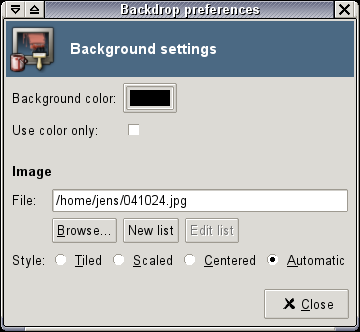
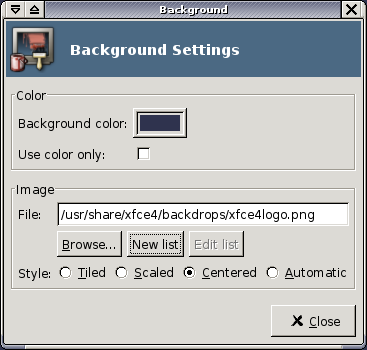
Update screenshots for new dialog style
(Old svn revision: 7213)

diff --git a/settings/backdrop-mgr.c b/settings/backdrop-mgr.c
@@ -130,25 +130,22 @@ static void read_file(const char *filename, ListDialog *ld)
 
     if (!g_file_get_contents(filename, &contents, NULL, &error))
     {
-	char msg[1024];
-
-	sprintf(msg, _("Could not read file %s:\n\n%s"),
-		filename, error->message);
-
-	show_error(msg);
+	show_error(error->message);
+	g_error_free(error);
 	
 	return;
     }
 
     if (strncmp(LIST_TEXT, contents, strlen(LIST_TEXT)) != 0)
     {
-	char msg[1024];
+	char *msg;
 
 	g_free(contents);
 
-	sprintf(msg,_("Not a backdrop list file: %s\n"), filename);
+	msg = g_strdup_printf(_("Not a backdrop list file: %s\n"), filename);
 	
 	show_error(msg);
+	g_free(msg);
 	
 	return;
     }
@@ -174,15 +171,15 @@ static gboolean save_list_file(ListDialog *ld)
     
     if (!fp)
     {
-	char message[1024];
+	char *message;
 
-	sprintf(message, 
-		_("Could not save file %s.\n\n"
-		  "Please choose another location or press "
-		  "cancel in the dialog to discard your changes"), 
-		ld->filename);
+	message = g_strdup_printf(_("Could not save file %s.\n\n"
+		  	"Please choose another location or press "
+		  	"cancel in the dialog to discard your changes"), 
+			ld->filename);
 	
 	show_error(message);
+	g_free(message);
 
 	return FALSE;
     }
@@ -575,7 +572,7 @@ static void list_mgr_dialog(const char *title, GtkWidget *parent,
     
     ld->last_dir = g_build_filename(DATADIR, "xfce4", "backdrops/", NULL);
     
-    dialog = gtk_dialog_new_with_buttons(_("Backdrop list manager"), 
+    dialog = gtk_dialog_new_with_buttons(_("Backdrop List"), 
 	    				 GTK_WINDOW(parent),
 	    				 GTK_DIALOG_NO_SEPARATOR, 
 					 NULL);
@@ -610,7 +607,7 @@ static void list_mgr_dialog(const char *title, GtkWidget *parent,
     gtk_widget_set_size_request(header, -1, 50);
 
     frame = gtk_frame_new(_("Image files"));
-    gtk_container_set_border_width(GTK_CONTAINER(frame), BORDER-1);
+    gtk_container_set_border_width(GTK_CONTAINER(frame), BORDER);
     gtk_widget_show(frame);
     gtk_box_pack_start(GTK_BOX(mainvbox), frame, TRUE, TRUE, 0);
     
@@ -624,7 +621,7 @@ static void list_mgr_dialog(const char *title, GtkWidget *parent,
     add_list_buttons(vbox, ld);
 
     frame = gtk_frame_new(_("List file"));
-    gtk_container_set_border_width(GTK_CONTAINER(frame), BORDER-1);
+    gtk_container_set_border_width(GTK_CONTAINER(frame), BORDER);
     gtk_widget_show(frame);
     gtk_box_pack_start(GTK_BOX(mainvbox), frame, FALSE, FALSE, 0);
     

diff --git a/settings/backdrop_settings.c b/settings/backdrop_settings.c
@@ -591,7 +591,7 @@ browse_cb (GtkWidget * b, BackdropDialog * bd)
     if (fs)
 	gtk_window_present(GTK_WINDOW(fs));
     
-    title = _("Select backdrop image or list file");
+    title = _("Select background image or list file");
     fs = GTK_FILE_SELECTION(preview_file_selection_new (title, TRUE));
     
     gtk_file_selection_hide_fileop_buttons(fs);
@@ -789,11 +789,13 @@ static GtkWidget *create_backdrop_dialog(McsPlugin * mcs_plugin)
     bd->plugin = mcs_plugin;
 
     /* the dialog */
-    bd->dialog = gtk_dialog_new_with_buttons(_("Backdrop preferences"), NULL,
+    bd->dialog = gtk_dialog_new_with_buttons(_("Background"), NULL,
                                              GTK_DIALOG_NO_SEPARATOR, 
 					     GTK_STOCK_CLOSE,
 					     GTK_RESPONSE_OK,
 					     NULL);
+
+    gtk_dialog_set_default_response(GTK_DIALOG(bd->dialog), GTK_RESPONSE_OK);
 
     gtk_window_set_position(GTK_WINDOW(bd->dialog), GTK_WIN_POS_CENTER);
 
@@ -804,14 +806,14 @@ static GtkWidget *create_backdrop_dialog(McsPlugin * mcs_plugin)
     mainvbox = GTK_DIALOG(bd->dialog)->vbox;
     
     /* header */
-    header = create_header(bd->plugin->icon, _("Background settings"));
+    header = create_header(bd->plugin->icon, _("Background Settings"));
     gtk_box_pack_start(GTK_BOX(mainvbox), header, FALSE, TRUE, 0);
 
     add_spacer(GTK_BOX(mainvbox));
 
     /* color */
     frame = gtk_frame_new(_("Color"));
-    gtk_container_set_border_width(GTK_CONTAINER(frame), BORDER-1);
+    gtk_container_set_border_width(GTK_CONTAINER(frame), BORDER);
     gtk_widget_show(frame);
     gtk_box_pack_start(GTK_BOX(mainvbox), frame, TRUE, TRUE, 0);
     
@@ -824,7 +826,7 @@ static GtkWidget *create_backdrop_dialog(McsPlugin * mcs_plugin)
 
     /* image vbox */
     frame = gtk_frame_new(_("Image"));
-    gtk_container_set_border_width(GTK_CONTAINER(frame), BORDER-1);
+    gtk_container_set_border_width(GTK_CONTAINER(frame), BORDER);
     gtk_widget_show(frame);
     gtk_box_pack_start(GTK_BOX(mainvbox), frame, TRUE, TRUE, 0);
     

diff --git a/settings/workspaces_settings.c b/settings/workspaces_settings.c
@@ -495,7 +495,7 @@ static void run_dialog(McsPlugin *plugin )
 	return;
     }
 
-    dialog = gtk_dialog_new_with_buttons(_("Workspace settings"),NULL,
+    dialog = gtk_dialog_new_with_buttons(_("Workspaces"),NULL,
 	    				 GTK_DIALOG_NO_SEPARATOR,
 					 GTK_STOCK_CLOSE, GTK_RESPONSE_OK,
 					 NULL);
@@ -527,7 +527,7 @@ static void run_dialog(McsPlugin *plugin )
 
     /* Number of workspaces */
     frame = gtk_frame_new(_("Workspaces"));
-    gtk_container_set_border_width(GTK_CONTAINER(frame), BORDER-1);
+    gtk_container_set_border_width(GTK_CONTAINER(frame), BORDER);
     gtk_widget_show(frame);
     gtk_box_pack_start(GTK_BOX(mainvbox), frame, FALSE, FALSE, 0);
     
@@ -540,7 +540,7 @@ static void run_dialog(McsPlugin *plugin )
 
     /* Workspace names */
     frame = gtk_frame_new(_("Workspace names"));
-    gtk_container_set_border_width(GTK_CONTAINER(frame), BORDER-1);
+    gtk_container_set_border_width(GTK_CONTAINER(frame), BORDER);
     gtk_widget_show(frame);
     gtk_box_pack_start(GTK_BOX(mainvbox), frame, TRUE, TRUE, 0);
     

diff --git a/settings/settings_common.h b/settings/settings_common.h
@@ -35,7 +35,7 @@
 #define _(x) x
 #define N_(x) x
 
-#define BORDER 6
+#define BORDER 5
 
 void create_channel(McsManager *manager, const char *channel, 
 		    const char *rcfile);
